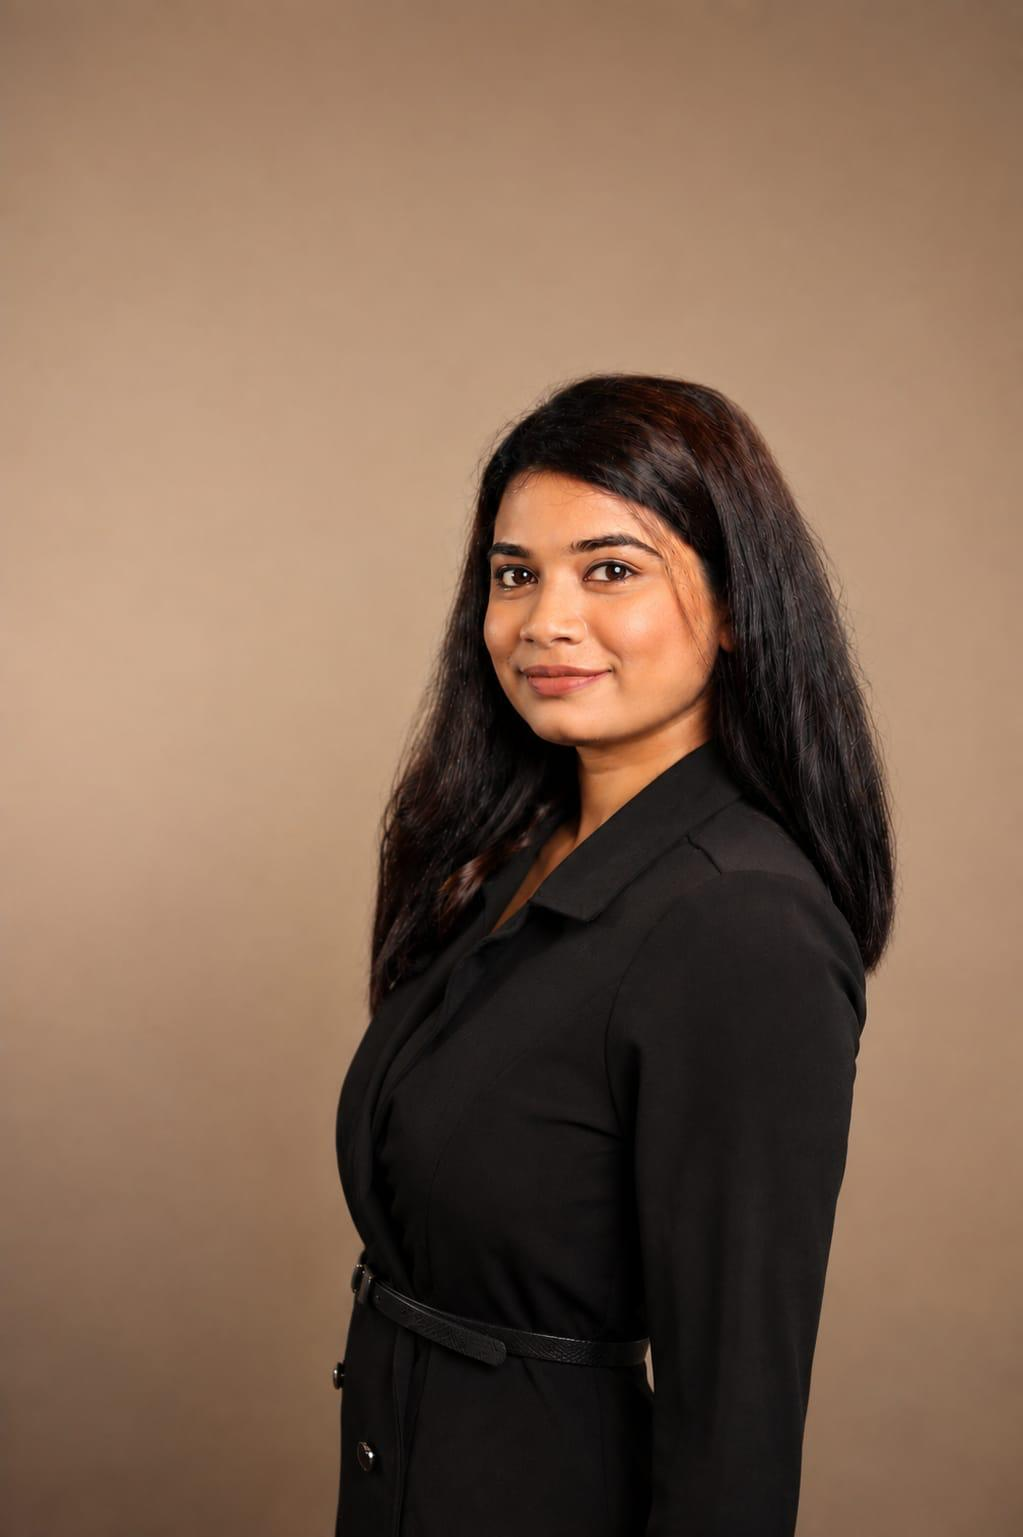
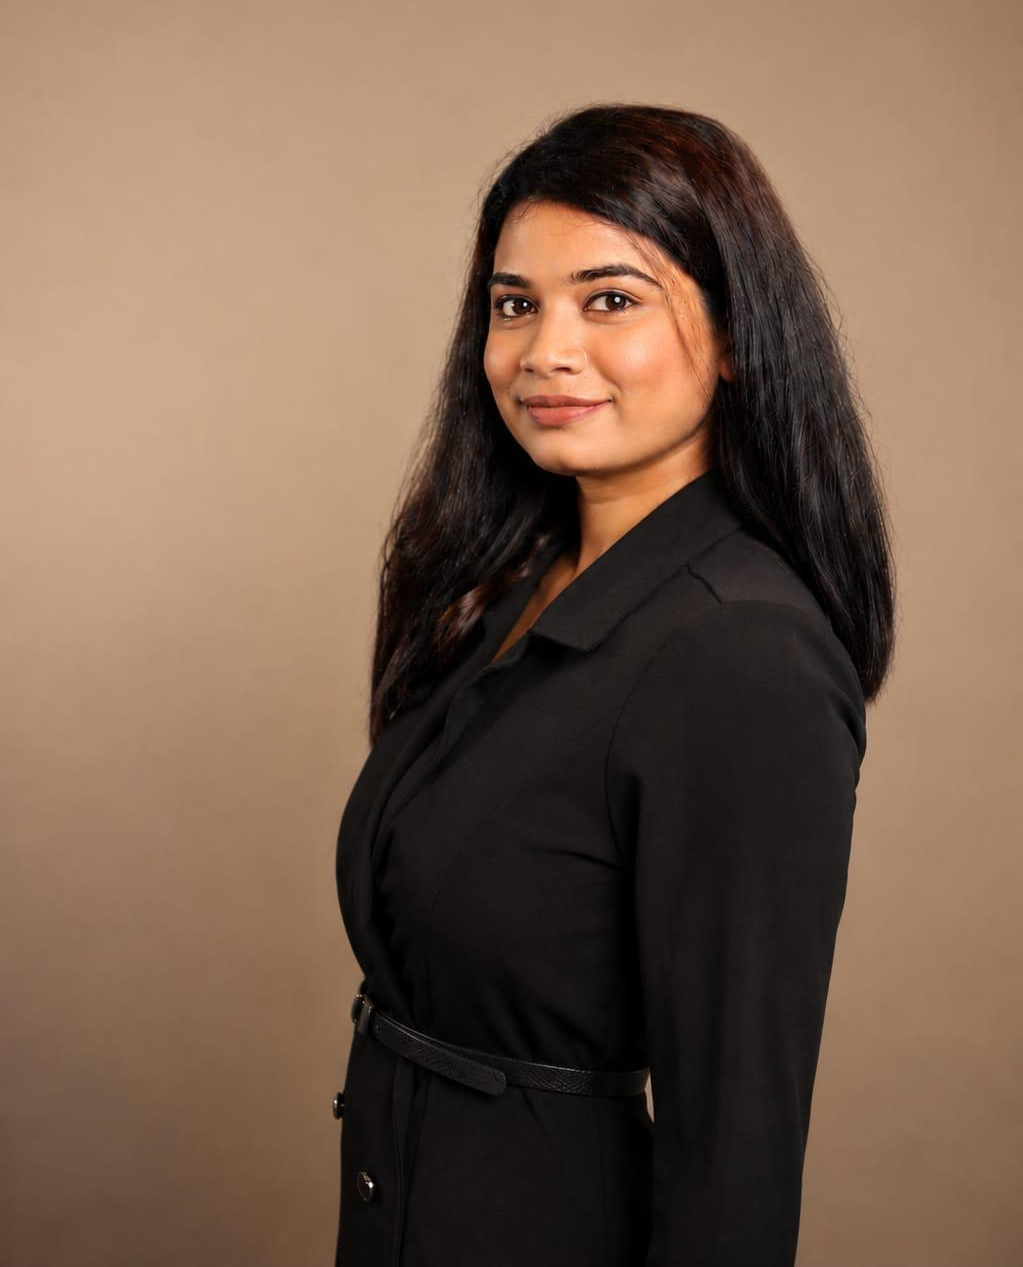
fix: crop portraits from top for optimal head-and-shoulders framing in Legal Experts carousel

diff --git a/src/components/TeamSection.tsx b/src/components/TeamSection.tsx
@@ -26,6 +26,7 @@ export interface TeamMember {
   role: string;
   category: "Founding Partner" | "Legal Head" | "Partner" | "Senior Associate";
   image: string | null;
+  imagePosition?: string;
   bio: string;
   linkedin: string;
   email: string;
@@ -40,6 +41,7 @@ export const TEAM_MEMBERS: TeamMember[] = [
     role: "Founding Partner",
     category: "Founding Partner",
     image: siddharthImg,
+    imagePosition: "object-[center_15%]",
     bio: "With over 5 years of experience in commercial dispute litigation, Siddharth has successfully recovered more than 1.5 millions for clients across various industries.",
     linkedin: "https://www.linkedin.com/in/siddharth-lokhande-938377213/",
     email: "ceo@lexianandjurian.com",
@@ -52,6 +54,7 @@ export const TEAM_MEMBERS: TeamMember[] = [
     role: "Legal Head",
     category: "Legal Head",
     image: sayaliImg,
+    imagePosition: "object-[center_15%]",
     bio: "Sayali specializes in complex commercial disputes and has a track record of 95% success rate in contract breach and partnership dissolution cases.",
     linkedin: "https://www.linkedin.com/in/",
     email: "info@lexianandjurian.com",
@@ -386,7 +389,7 @@ export const TeamSection: React.FC = () => {
                     <img
                       src={prevMember.image}
                       alt={prevMember.name}
-                      className="w-full h-full object-cover object-[center_20%]"
+                      className={`w-full h-full object-cover ${prevMember.imagePosition || "object-[center_20%]"}`}
                     />
                   ) : (
                     <div className="w-full h-full bg-gradient-to-b from-[#001d51] via-[#001a47] to-[#00102e] flex flex-col items-center justify-center text-white p-4">
@@ -430,7 +433,7 @@ export const TeamSection: React.FC = () => {
                       <img
                         src={activeMember.image}
                         alt={activeMember.name}
-                        className="w-full h-full object-cover object-[center_20%] sm:object-top transition-transform duration-500 hover:scale-105"
+                        className={`w-full h-full object-cover ${activeMember.imagePosition || "object-[center_20%]"} transition-transform duration-500 hover:scale-105`}
                       />
                     ) : (
                       /* Placeholder for Future Photo Integration */
@@ -518,7 +521,7 @@ export const TeamSection: React.FC = () => {
                     <img
                       src={nextMember.image}
                       alt={nextMember.name}
-                      className="w-full h-full object-cover object-[center_20%]"
+                      className={`w-full h-full object-cover ${nextMember.imagePosition || "object-[center_20%]"}`}
                     />
                   ) : (
                     <div className="w-full h-full bg-gradient-to-b from-[#001d51] via-[#001a47] to-[#00102e] flex flex-col items-center justify-center text-white p-4">
